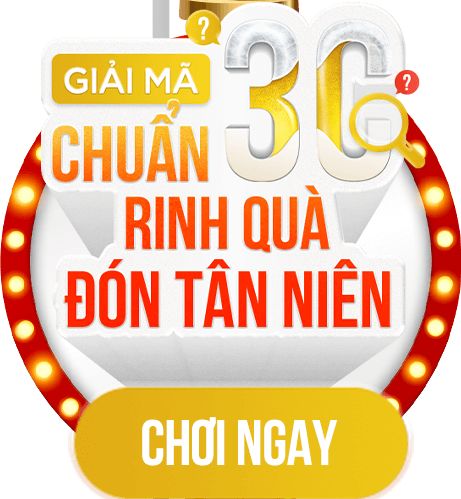
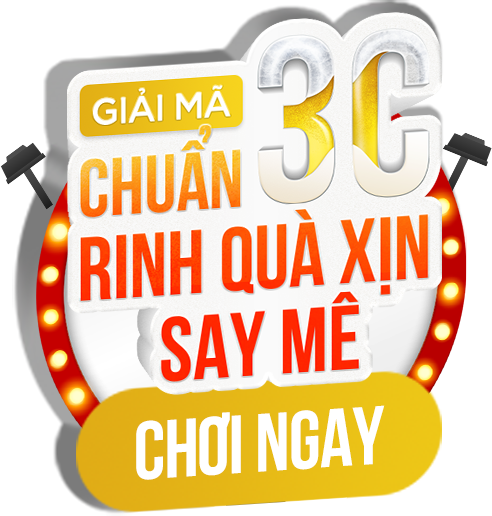
update  img + css

diff --git a/css/style.css b/css/style.css
@@ -2346,7 +2346,7 @@ input[type="submit"] {
   @media screen and (max-width: 768px) {
     .link-to {
       width: 11.8%;
-      top: 19%;
+      top: 19.4%;
       left: 50%; } }
 
 .light-glass {
@@ -2368,14 +2368,14 @@ input[type="submit"] {
           animation-delay: 2s; }
 
 .light-glass-2 {
-  top: 41%;
+  top: 42%;
   left: -2%;
   -webkit-animation: light-glass infinite 4s;
        -o-animation: light-glass infinite 4s;
           animation: light-glass infinite 4s; }
 
 .light-glass-3 {
-  top: 49%;
+  top: 51%;
   left: -3%;
   -webkit-animation: light-glass infinite 4s;
        -o-animation: light-glass infinite 4s;
@@ -2385,14 +2385,14 @@ input[type="submit"] {
           animation-delay: 2s; }
 
 .light-glass-4 {
-  top: 58%;
+  top: 60%;
   left: 0%;
   -webkit-animation: light-glass infinite 4s;
        -o-animation: light-glass infinite 4s;
           animation: light-glass infinite 4s; }
 
 .light-glass-5 {
-  top: 65%;
+  top: 67%;
   left: 2%;
   -webkit-animation: light-glass infinite 4s;
        -o-animation: light-glass infinite 4s;
@@ -2429,8 +2429,8 @@ input[type="submit"] {
           animation-delay: 2s; }
 
 .light-glass-9 {
-  top: 52%;
-  right: 0.2%;
+  top: 53%;
+  right: -0.2%;
   -webkit-animation: light-glass infinite 4s;
        -o-animation: light-glass infinite 4s;
           animation: light-glass infinite 4s; }
@@ -3683,11 +3683,11 @@ body {
     width: 100%;
     height: 22%; }
     .light .light-1 {
-      left: 51.2%;
-      top: 32.8%; }
+      left: 50.5%;
+      top: 29%; }
     .light .light-2 {
-      left: 59%;
-      top: 31%; }
+      left: 58.9%;
+      top: 27.5%; }
     .light .ico-5 {
       left: 56.2%; }
     .light .ico-4 {

diff --git a/css/anmodule.css b/css/anmodule.css
@@ -1970,7 +1970,7 @@
   @media screen and (max-width: 768px) {
     .link-to {
       width: 11.8%;
-      top: 19%;
+      top: 19.4%;
       left: 50%; } }
 
 .light-glass {
@@ -1992,14 +1992,14 @@
           animation-delay: 2s; }
 
 .light-glass-2 {
-  top: 41%;
+  top: 42%;
   left: -2%;
   -webkit-animation: light-glass infinite 4s;
        -o-animation: light-glass infinite 4s;
           animation: light-glass infinite 4s; }
 
 .light-glass-3 {
-  top: 49%;
+  top: 51%;
   left: -3%;
   -webkit-animation: light-glass infinite 4s;
        -o-animation: light-glass infinite 4s;
@@ -2009,14 +2009,14 @@
           animation-delay: 2s; }
 
 .light-glass-4 {
-  top: 58%;
+  top: 60%;
   left: 0%;
   -webkit-animation: light-glass infinite 4s;
        -o-animation: light-glass infinite 4s;
           animation: light-glass infinite 4s; }
 
 .light-glass-5 {
-  top: 65%;
+  top: 67%;
   left: 2%;
   -webkit-animation: light-glass infinite 4s;
        -o-animation: light-glass infinite 4s;
@@ -2053,8 +2053,8 @@
           animation-delay: 2s; }
 
 .light-glass-9 {
-  top: 52%;
-  right: 0.2%;
+  top: 53%;
+  right: -0.2%;
   -webkit-animation: light-glass infinite 4s;
        -o-animation: light-glass infinite 4s;
           animation: light-glass infinite 4s; }

diff --git a/css/kienmodule.css b/css/kienmodule.css
@@ -1047,11 +1047,11 @@
     width: 100%;
     height: 22%; }
     .light .light-1 {
-      left: 51.2%;
-      top: 32.8%; }
+      left: 50.5%;
+      top: 29%; }
     .light .light-2 {
-      left: 59%;
-      top: 31%; }
+      left: 58.9%;
+      top: 27.5%; }
     .light .ico-5 {
       left: 56.2%; }
     .light .ico-4 {
